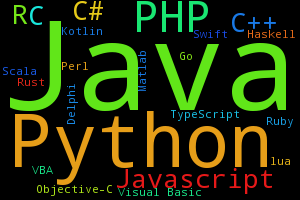
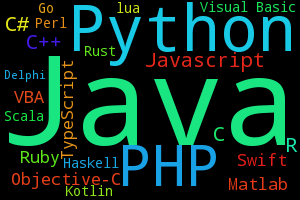
Revert "new cache"
This reverts commit c0889051d629a88a3acd88e6d77edf93670402fe.

diff --git a/PYPL/All.js b/PYPL/All.js
@@ -1,7 +1,7 @@
     // data
 // begin Top All
 TopPlusMinus = [1,1,2]
-PlusMinus = [-0.06465,0.146133333333]
+PlusMinus = [-0.0595666666667,0.1457]
 // end Top All
 graphData = [
 ['Date', // begin section languages
@@ -9,62 +9,62 @@ graphData = [
 // end section languages
 ],
 // begin section All
-[new Date(2004,3,1), 0.272,0.023,0.172,0.042,0.084,0.092,0.092,0.002,0.003,0.003,0.021,0.003,0.012,0.082,0.001,0.066,0.002,0.028,0.003,0.001],
-[new Date(2004,6,1), 0.268,0.024,0.173,0.045,0.082,0.09,0.09,0.003,0.003,0.003,0.021,0.003,0.014,0.081,0.002,0.067,0.002,0.028,0.002,0.002],
-[new Date(2004,9,1), 0.265,0.026,0.177,0.05,0.079,0.086,0.086,0.002,0.003,0.003,0.02,0.003,0.015,0.08,0.002,0.068,0.002,0.028,0.002,0.002],
-[new Date(2004,12,1), 0.27,0.027,0.179,0.051,0.076,0.088,0.088,0.002,0.004,0.004,0.021,0.004,0.015,0.076,0.002,0.064,0.002,0.028,0.002,0.002],
-[new Date(2005,3,1), 0.28,0.021,0.175,0.056,0.073,0.088,0.088,0.002,0.004,0.004,0.014,0.005,0.016,0.076,0.002,0.063,0.002,0.029,0.002,0.004],
-[new Date(2005,6,1), 0.291,0.017,0.171,0.061,0.074,0.084,0.084,0.002,0.003,0.004,0.006,0.006,0.018,0.079,0.002,0.063,0.002,0.029,0.002,0.003],
-[new Date(2005,9,1), 0.292,0.018,0.174,0.061,0.076,0.083,0.083,0.002,0.003,0.003,0.006,0.009,0.018,0.078,0.062,0.002,0.027,0.002,0.002],
-[new Date(2005,12,1), 0.291,0.018,0.175,0.061,0.076,0.081,0.081,0.003,0.004,0.004,0.006,0.015,0.018,0.074,0.004,0.06,0.002,0.026,0.003,0.002],
-[new Date(2006,3,1), 0.294,0.019,0.179,0.062,0.077,0.079,0.079,0.002,0.003,0.003,0.006,0.02,0.018,0.069,0.003,0.057,0.002,0.024,0.002,0.003],
-[new Date(2006,6,1), 0.29,0.02,0.181,0.067,0.079,0.076,0.076,0.002,0.004,0.004,0.006,0.022,0.019,0.07,0.002,0.056,0.002,0.023,0.002,0.002],
-[new Date(2006,9,1), 0.285,0.021,0.177,0.072,0.08,0.075,0.075,0.002,0.003,0.004,0.005,0.024,0.019,0.067,0.002,0.057,0.003,0.023,0.003,0.003],
-[new Date(2006,12,1), 0.291,0.023,0.175,0.073,0.081,0.075,0.075,0.002,0.003,0.003,0.005,0.026,0.018,0.063,0.002,0.056,0.003,0.021,0.002,0.003],
-[new Date(2007,3,1), 0.297,0.023,0.175,0.071,0.079,0.075,0.075,0.002,0.003,0.003,0.006,0.028,0.018,0.064,0.001,0.055,0.002,0.02,0.002,0.002],
-[new Date(2007,6,1), 0.298,0.025,0.18,0.07,0.079,0.073,0.073,0.002,0.003,0.003,0.006,0.028,0.018,0.063,0.001,0.053,0.002,0.02,0.002,0.002],
-[new Date(2007,9,1), 0.302,0.027,0.182,0.071,0.08,0.071,0.071,0.002,0.003,0.003,0.005,0.028,0.019,0.059,0.001,0.051,0.002,0.02,0.002,0.002],
-[new Date(2007,12,1), 0.305,0.028,0.179,0.072,0.077,0.075,0.075,0.002,0.004,0.002,0.006,0.028,0.019,0.056,0.001,0.048,0.002,0.018,0.002,0.002],
-[new Date(2008,3,1), 0.304,0.028,0.175,0.075,0.076,0.076,0.076,0.002,0.004,0.003,0.006,0.029,0.019,0.057,0.002,0.044,0.002,0.019,0.002,0.002],
-[new Date(2008,6,1), 0.298,0.03,0.176,0.08,0.078,0.073,0.073,0.002,0.004,0.003,0.007,0.029,0.02,0.058,0.002,0.042,0.002,0.021,0.002,0.002],
-[new Date(2008,9,1), 0.287,0.033,0.177,0.083,0.075,0.075,0.075,0.002,0.005,0.003,0.007,0.028,0.021,0.059,0.002,0.042,0.002,0.02,0.002,0.002],
-[new Date(2008,12,1), 0.283,0.033,0.172,0.081,0.075,0.079,0.079,0.002,0.005,0.003,0.006,0.027,0.022,0.06,0.002,0.043,0.003,0.019,0.002,0.002,0.001],
-[new Date(2009,3,1), 0.285,0.034,0.172,0.078,0.074,0.082,0.082,0.002,0.005,0.002,0.007,0.026,0.022,0.061,0.002,0.043,0.003,0.018,0.002,0.001,0.001],
-[new Date(2009,6,1), 0.281,0.035,0.176,0.072,0.074,0.086,0.086,0.002,0.005,0.002,0.007,0.026,0.024,0.06,0.002,0.042,0.002,0.016,0.002,0.001],
-[new Date(2009,9,1), 0.274,0.037,0.172,0.067,0.077,0.093,0.093,0.002,0.005,0.002,0.007,0.025,0.026,0.059,0.002,0.04,0.002,0.015,0.002,0.001],
-[new Date(2009,12,1), 0.277,0.037,0.167,0.065,0.072,0.1,0.1,0.002,0.005,0.002,0.008,0.024,0.026,0.059,0.002,0.038,0.001,0.014,0.002,0.001],
-[new Date(2010,3,1), 0.282,0.035,0.163,0.062,0.067,0.105,0.105,0.003,0.005,0.002,0.008,0.022,0.027,0.059,0.002,0.035,0.001,0.014,0.001,0.002,0.001],
-[new Date(2010,6,1), 0.279,0.035,0.16,0.062,0.068,0.109,0.109,0.003,0.005,0.002,0.009,0.021,0.027,0.057,0.002,0.034,0.002,0.014,0.001,0.002,0.001],
-[new Date(2010,9,1), 0.279,0.036,0.154,0.064,0.067,0.112,0.112,0.006,0.005,0.002,0.009,0.022,0.028,0.053,0.002,0.031,0.002,0.013,0.001,0.001,0.001],
-[new Date(2010,12,1), 0.281,0.037,0.149,0.063,0.064,0.115,0.115,0.012,0.006,0.002,0.009,0.025,0.026,0.05,0.002,0.027,0.002,0.013,0.001,0.001,0.001],
-[new Date(2011,3,1), 0.279,0.038,0.148,0.061,0.064,0.117,0.117,0.015,0.006,0.002,0.008,0.026,0.024,0.049,0.002,0.026,0.002,0.012,0.001,0.002,0.001],
-[new Date(2011,6,1), 0.279,0.038,0.146,0.061,0.065,0.117,0.117,0.018,0.006,0.001,0.008,0.026,0.024,0.049,0.002,0.026,0.002,0.011,0.001,0.001,0.001],
-[new Date(2011,9,1), 0.272,0.039,0.14,0.059,0.065,0.122,0.122,0.022,0.006,0.001,0.008,0.027,0.026,0.046,0.003,0.026,0.002,0.01,0.001,0.001,0.001],
-[new Date(2011,12,1), 0.271,0.043,0.138,0.066,0.068,0.113,0.113,0.032,0.007,0.001,0.009,0.026,0.028,0.044,0.003,0.024,0.002,0.01,0.001,0.002,0.001],
-[new Date(2012,3,1), 0.274,0.046,0.141,0.082,0.068,0.096,0.096,0.039,0.007,0.001,0.01,0.027,0.029,0.044,0.002,0.024,0.002,0.009,0.001,0.001,0.001,0.001],
-[new Date(2012,6,1), 0.273,0.046,0.142,0.095,0.066,0.09,0.09,0.04,0.007,0.001,0.01,0.028,0.028,0.042,0.003,0.024,0.002,0.01,0.001,0.001,0.001,0.001],
-[new Date(2012,9,1), 0.275,0.048,0.141,0.099,0.068,0.088,0.088,0.041,0.007,0.001,0.009,0.029,0.025,0.04,0.003,0.023,0.002,0.009,0.001,0.002,0.001,0.001,0.001],
-[new Date(2012,12,1), 0.278,0.05,0.14,0.1,0.068,0.088,0.088,0.043,0.007,0.001,0.009,0.029,0.023,0.038,0.004,0.021,0.002,0.009,0.001,0.002,0.001,0.001,0.001],
-[new Date(2013,3,1), 0.266,0.069,0.136,0.096,0.068,0.081,0.081,0.048,0.013,0.003,0.019,0.027,0.019,0.034,0.004,0.019,0.004,0.008,0.001,0.002,0.001,0.001,0.0],
-[new Date(2013,6,1), 0.249,0.09,0.133,0.092,0.07,0.075,0.075,0.05,0.019,0.004,0.03,0.026,0.016,0.03,0.004,0.017,0.006,0.007,0.001,0.003,0.001,0.001,0.0],
-[new Date(2013,9,1), 0.248,0.092,0.13,0.092,0.072,0.075,0.075,0.056,0.019,0.004,0.028,0.026,0.015,0.029,0.005,0.017,0.006,0.006,0.001,0.003,0.001,0.001,0.0],
-[new Date(2013,12,1), 0.247,0.094,0.125,0.09,0.071,0.077,0.077,0.061,0.02,0.003,0.028,0.025,0.015,0.027,0.006,0.016,0.006,0.006,0.001,0.003,0.001,0.001,0.0],
-[new Date(2014,3,1), 0.244,0.096,0.122,0.092,0.072,0.076,0.076,0.061,0.021,0.003,0.029,0.025,0.015,0.027,0.006,0.015,0.005,0.006,0.001,0.003,0.002,0.001,0.0],
-[new Date(2014,6,1), 0.245,0.096,0.122,0.093,0.074,0.075,0.075,0.06,0.022,0.006,0.028,0.025,0.015,0.026,0.006,0.014,0.005,0.006,0.001,0.003,0.003,0.001,0.0],
-[new Date(2014,9,1), 0.246,0.097,0.118,0.092,0.071,0.075,0.075,0.059,0.023,0.014,0.027,0.024,0.015,0.024,0.006,0.014,0.005,0.006,0.002,0.003,0.002,0.001,0.0],
-[new Date(2014,12,1), 0.242,0.103,0.112,0.089,0.068,0.075,0.075,0.059,0.025,0.023,0.029,0.025,0.014,0.023,0.007,0.013,0.005,0.005,0.002,0.003,0.002,0.001,0.0],
-[new Date(2015,3,1), 0.24,0.108,0.112,0.088,0.069,0.073,0.073,0.056,0.026,0.025,0.03,0.025,0.014,0.022,0.007,0.012,0.005,0.006,0.002,0.003,0.002,0.001,0.0],
-[new Date(2015,6,1), 0.242,0.108,0.112,0.09,0.071,0.071,0.071,0.052,0.027,0.026,0.029,0.024,0.015,0.02,0.008,0.012,0.005,0.005,0.002,0.003,0.002,0.002,0.0],
-[new Date(2015,9,1), 0.244,0.109,0.108,0.09,0.071,0.072,0.072,0.052,0.027,0.028,0.027,0.024,0.015,0.019,0.009,0.012,0.005,0.005,0.003,0.003,0.002,0.002,0.0],
-[new Date(2015,12,1), 0.241,0.116,0.105,0.088,0.071,0.074,0.074,0.05,0.028,0.029,0.027,0.023,0.015,0.018,0.009,0.011,0.005,0.004,0.003,0.003,0.002,0.003,0.0],
-[new Date(2016,3,1), 0.232,0.123,0.106,0.086,0.072,0.073,0.073,0.05,0.03,0.031,0.029,0.022,0.014,0.017,0.009,0.01,0.005,0.004,0.003,0.003,0.002,0.004,0.001],
+[new Date(2004,3,1), 0.263,0.02,0.164,0.041,0.077,0.137,0.089,0.0,0.0,0.0,0.021,0.0,0.015,0.08,0.0,0.065,0.0,0.028,0.0,0.0,0.0,0.0,0.0],
+[new Date(2004,6,1), 0.264,0.022,0.167,0.044,0.076,0.135,0.087,0.0,0.0,0.0,0.021,0.0,0.015,0.077,0.0,0.065,0.0,0.027,0.0,0.0,0.0,0.0,0.0],
+[new Date(2004,9,1), 0.258,0.024,0.174,0.048,0.074,0.134,0.083,0.0,0.0,0.0,0.021,0.0,0.016,0.077,0.0,0.065,0.0,0.026,0.0,0.0,0.0,0.0,0.0],
+[new Date(2004,12,1), 0.26,0.024,0.175,0.049,0.073,0.136,0.085,0.0,0.0,0.0,0.022,0.0,0.016,0.073,0.0,0.062,0.0,0.026,0.0,0.0,0.0,0.0,0.0],
+[new Date(2005,3,1), 0.265,0.024,0.175,0.052,0.072,0.134,0.09,0.0,0.0,0.0,0.022,0.001,0.015,0.067,0.0,0.058,0.0,0.025,0.0,0.0,0.0,0.0,0.0],
+[new Date(2005,6,1), 0.268,0.027,0.175,0.053,0.073,0.129,0.087,0.0,0.0,0.0,0.021,0.005,0.015,0.067,0.0,0.057,0.0,0.024,0.0,0.0,0.0,0.0,0.0],
+[new Date(2005,9,1), 0.269,0.031,0.175,0.054,0.075,0.126,0.083,0.0,0.0,0.0,0.02,0.009,0.015,0.065,0.0,0.054,0.0,0.022,0.0,0.0,0.0,0.0,0.0],
+[new Date(2005,12,1), 0.268,0.034,0.177,0.057,0.076,0.124,0.082,0.0,0.0,0.0,0.02,0.011,0.014,0.064,0.0,0.053,0.0,0.02,0.0,0.0,0.0,0.0,0.0],
+[new Date(2006,3,1), 0.269,0.034,0.179,0.057,0.074,0.123,0.08,0.0,0.003,0.0,0.022,0.015,0.014,0.06,0.0,0.052,0.0,0.019,0.0,0.0,0.0,0.0,0.0],
+[new Date(2006,6,1), 0.264,0.034,0.179,0.06,0.076,0.119,0.076,0.0,0.006,0.0,0.021,0.019,0.015,0.06,0.0,0.052,0.0,0.019,0.0,0.0,0.0,0.0,0.0],
+[new Date(2006,9,1), 0.261,0.037,0.178,0.063,0.078,0.113,0.075,0.0,0.007,0.0,0.021,0.022,0.016,0.058,0.0,0.054,0.0,0.018,0.0,0.0,0.0,0.0,0.0],
+[new Date(2006,12,1), 0.268,0.038,0.179,0.064,0.077,0.111,0.076,0.0,0.007,0.0,0.021,0.023,0.016,0.052,0.0,0.05,0.0,0.017,0.0,0.0,0.0,0.0,0.0],
+[new Date(2007,3,1), 0.275,0.039,0.181,0.062,0.076,0.112,0.075,0.0,0.006,0.0,0.021,0.025,0.015,0.051,0.0,0.046,0.0,0.017,0.0,0.0,0.0,0.0,0.0],
+[new Date(2007,6,1), 0.273,0.042,0.184,0.063,0.077,0.108,0.072,0.0,0.006,0.0,0.021,0.027,0.015,0.05,0.0,0.045,0.0,0.017,0.0,0.0,0.0,0.0,0.0],
+[new Date(2007,9,1), 0.273,0.045,0.183,0.064,0.078,0.105,0.073,0.0,0.006,0.0,0.021,0.027,0.016,0.048,0.0,0.045,0.0,0.016,0.0,0.0,0.0,0.0,0.0],
+[new Date(2007,12,1), 0.274,0.048,0.177,0.064,0.075,0.107,0.075,0.0,0.007,0.0,0.022,0.028,0.016,0.047,0.0,0.043,0.0,0.016,0.0,0.0,0.0,0.0,0.0],
+[new Date(2008,3,1), 0.27,0.047,0.174,0.067,0.075,0.109,0.075,0.0,0.008,0.0,0.024,0.028,0.016,0.048,0.0,0.04,0.003,0.016,0.0,0.0,0.0,0.0,0.0],
+[new Date(2008,6,1), 0.269,0.047,0.177,0.071,0.076,0.104,0.071,0.0,0.007,0.0,0.024,0.027,0.016,0.048,0.0,0.039,0.006,0.016,0.0,0.0,0.0,0.0,0.0],
+[new Date(2008,9,1), 0.265,0.052,0.179,0.073,0.074,0.103,0.071,0.0,0.008,0.0,0.023,0.026,0.017,0.049,0.0,0.037,0.005,0.017,0.0,0.0,0.0,0.0,0.0],
+[new Date(2008,12,1), 0.258,0.056,0.175,0.072,0.072,0.108,0.077,0.0,0.009,0.0,0.024,0.025,0.017,0.049,0.0,0.037,0.005,0.016,0.0,0.0,0.0,0.0,0.0],
+[new Date(2009,3,1), 0.258,0.058,0.172,0.069,0.07,0.108,0.08,0.0,0.01,0.0,0.026,0.024,0.017,0.051,0.0,0.037,0.005,0.015,0.0,0.0,0.0,0.0,0.0],
+[new Date(2009,6,1), 0.257,0.057,0.174,0.065,0.071,0.107,0.084,0.0,0.01,0.0,0.027,0.024,0.018,0.05,0.0,0.035,0.005,0.015,0.0,0.0,0.0,0.0,0.0],
+[new Date(2009,9,1), 0.252,0.057,0.172,0.061,0.072,0.108,0.093,0.0,0.009,0.0,0.028,0.025,0.02,0.048,0.0,0.035,0.005,0.013,0.0,0.0,0.0,0.0,0.0],
+[new Date(2009,12,1), 0.254,0.058,0.167,0.059,0.07,0.109,0.098,0.0,0.01,0.0,0.03,0.023,0.021,0.048,0.0,0.034,0.005,0.013,0.0,0.0,0.0,0.0,0.0],
+[new Date(2010,3,1), 0.26,0.057,0.166,0.056,0.066,0.106,0.103,0.001,0.01,0.001,0.032,0.02,0.022,0.05,0.001,0.031,0.004,0.012,0.0,0.001,0.0,0.0,0.0],
+[new Date(2010,6,1), 0.261,0.056,0.164,0.056,0.065,0.101,0.106,0.003,0.01,0.003,0.032,0.019,0.023,0.049,0.002,0.031,0.004,0.012,0.0,0.003,0.0,0.0,0.0],
+[new Date(2010,9,1), 0.263,0.058,0.158,0.059,0.064,0.099,0.108,0.005,0.012,0.003,0.03,0.02,0.022,0.047,0.003,0.029,0.005,0.011,0.0,0.005,0.001,0.0,0.0],
+[new Date(2010,12,1), 0.264,0.061,0.153,0.059,0.062,0.096,0.109,0.01,0.012,0.003,0.03,0.022,0.02,0.045,0.004,0.025,0.005,0.011,0.0,0.006,0.002,0.0,0.0],
+[new Date(2011,3,1), 0.262,0.062,0.152,0.057,0.062,0.092,0.112,0.014,0.013,0.003,0.031,0.023,0.019,0.045,0.004,0.025,0.005,0.011,0.001,0.005,0.001,0.0,0.0],
+[new Date(2011,6,1), 0.263,0.062,0.151,0.056,0.065,0.09,0.114,0.018,0.013,0.003,0.029,0.024,0.019,0.044,0.003,0.024,0.005,0.01,0.001,0.005,0.001,0.0,0.0],
+[new Date(2011,9,1), 0.26,0.067,0.149,0.054,0.067,0.09,0.121,0.022,0.013,0.003,0.026,0.024,0.018,0.041,0.003,0.023,0.005,0.008,0.001,0.003,0.001,0.0,0.0],
+[new Date(2011,12,1), 0.255,0.071,0.144,0.058,0.068,0.09,0.112,0.032,0.013,0.003,0.028,0.024,0.02,0.039,0.003,0.022,0.004,0.008,0.001,0.003,0.001,0.0,0.0],
+[new Date(2012,3,1), 0.266,0.059,0.143,0.077,0.067,0.091,0.095,0.039,0.01,0.002,0.02,0.025,0.026,0.041,0.003,0.022,0.003,0.009,0.0,0.003,0.001,0.0,0.0],
+[new Date(2012,6,1), 0.277,0.046,0.143,0.093,0.067,0.089,0.089,0.04,0.007,0.001,0.009,0.028,0.027,0.042,0.003,0.023,0.002,0.01,0.001,0.001,0.001,0.0,0.0],
+[new Date(2012,9,1), 0.275,0.048,0.142,0.099,0.069,0.087,0.087,0.042,0.007,0.001,0.009,0.029,0.025,0.041,0.003,0.023,0.002,0.009,0.001,0.002,0.001,0.0,0.0],
+[new Date(2012,12,1), 0.273,0.05,0.139,0.102,0.069,0.087,0.087,0.044,0.007,0.001,0.009,0.029,0.024,0.038,0.004,0.022,0.002,0.009,0.001,0.002,0.001,0.0,0.0],
+[new Date(2013,3,1), 0.261,0.07,0.135,0.098,0.068,0.081,0.081,0.049,0.013,0.003,0.02,0.028,0.02,0.034,0.004,0.019,0.004,0.008,0.001,0.002,0.001,0.0,0.0],
+[new Date(2013,6,1), 0.251,0.09,0.134,0.093,0.07,0.075,0.075,0.051,0.019,0.004,0.029,0.025,0.015,0.029,0.004,0.017,0.006,0.007,0.001,0.003,0.001,0.001,0.0],
+[new Date(2013,9,1), 0.25,0.093,0.132,0.092,0.071,0.074,0.074,0.056,0.019,0.004,0.028,0.025,0.015,0.028,0.005,0.017,0.006,0.006,0.001,0.003,0.001,0.001,0.0],
+[new Date(2013,12,1), 0.247,0.093,0.126,0.091,0.07,0.076,0.076,0.06,0.02,0.004,0.028,0.025,0.015,0.028,0.006,0.016,0.006,0.006,0.001,0.003,0.001,0.001,0.0],
+[new Date(2014,3,1), 0.243,0.094,0.122,0.09,0.072,0.077,0.077,0.061,0.021,0.003,0.029,0.025,0.015,0.028,0.006,0.015,0.005,0.006,0.001,0.003,0.002,0.001,0.0],
+[new Date(2014,6,1), 0.239,0.094,0.119,0.09,0.074,0.076,0.076,0.062,0.023,0.007,0.029,0.026,0.016,0.027,0.006,0.015,0.006,0.006,0.001,0.003,0.003,0.001,0.0],
+[new Date(2014,9,1), 0.2,0.08,0.098,0.076,0.061,0.063,0.063,0.049,0.02,0.011,0.023,0.022,0.013,0.02,0.005,0.012,0.005,0.005,0.001,0.003,0.002,0.001,0.0],
+[new Date(2014,12,1), 0.081,0.033,0.039,0.03,0.024,0.026,0.026,0.019,0.008,0.006,0.008,0.009,0.005,0.008,0.002,0.005,0.002,0.002,0.001,0.001,0.001,0.0,0.0],
+[new Date(2015,3,1), 0.121,0.055,0.056,0.045,0.034,0.036,0.036,0.026,0.014,0.012,0.015,0.012,0.007,0.011,0.004,0.006,0.002,0.003,0.001,0.001,0.001,0.001,0.0],
+[new Date(2015,6,1), 0.243,0.109,0.112,0.09,0.07,0.071,0.071,0.052,0.027,0.026,0.028,0.025,0.015,0.02,0.008,0.012,0.005,0.005,0.002,0.003,0.002,0.002,0.0],
+[new Date(2015,9,1), 0.243,0.111,0.108,0.089,0.071,0.073,0.073,0.052,0.028,0.027,0.026,0.025,0.015,0.019,0.009,0.012,0.005,0.005,0.003,0.003,0.002,0.002,0.0],
+[new Date(2015,12,1), 0.241,0.117,0.106,0.087,0.07,0.074,0.074,0.051,0.028,0.028,0.026,0.023,0.015,0.017,0.008,0.011,0.005,0.004,0.003,0.003,0.002,0.003,0.0],
+[new Date(2016,3,1), 0.232,0.123,0.106,0.086,0.071,0.073,0.073,0.051,0.03,0.031,0.028,0.022,0.014,0.017,0.009,0.01,0.005,0.004,0.003,0.003,0.002,0.004,0.001],
 [new Date(2016,6,1), 0.225,0.129,0.105,0.085,0.072,0.071,0.071,0.051,0.033,0.034,0.027,0.022,0.014,0.016,0.01,0.009,0.005,0.004,0.004,0.003,0.003,0.006,0.001],
-[new Date(2016,9,1), 0.224,0.135,0.101,0.084,0.073,0.071,0.071,0.051,0.033,0.033,0.025,0.022,0.014,0.015,0.01,0.009,0.005,0.004,0.004,0.003,0.003,0.008,0.001],
-[new Date(2016,12,1), 0.221,0.143,0.096,0.082,0.075,0.072,0.072,0.048,0.033,0.032,0.025,0.02,0.013,0.015,0.011,0.009,0.005,0.004,0.005,0.003,0.003,0.01,0.001],
-[new Date(2017,3,1), 0.218,0.155,0.094,0.08,0.077,0.069,0.069,0.043,0.036,0.032,0.025,0.019,0.013,0.014,0.012,0.008,0.005,0.004,0.006,0.004,0.004,0.012,0.001],
-[new Date(2017,6,1), 0.216,0.169,0.09,0.079,0.079,0.065,0.065,0.041,0.037,0.032,0.023,0.019,0.014,0.013,0.013,0.008,0.004,0.003,0.006,0.003,0.003,0.012,0.004],
+[new Date(2016,9,1), 0.225,0.135,0.101,0.085,0.073,0.071,0.071,0.051,0.033,0.033,0.025,0.022,0.014,0.015,0.01,0.009,0.005,0.004,0.004,0.003,0.003,0.007,0.001],
+[new Date(2016,12,1), 0.221,0.143,0.096,0.082,0.076,0.072,0.072,0.048,0.033,0.033,0.025,0.02,0.014,0.015,0.011,0.009,0.005,0.004,0.004,0.003,0.003,0.009,0.001],
+[new Date(2017,3,1), 0.218,0.156,0.094,0.08,0.077,0.069,0.069,0.043,0.036,0.033,0.025,0.019,0.013,0.014,0.012,0.009,0.005,0.004,0.005,0.003,0.003,0.011,0.001],
+[new Date(2017,6,1), 0.215,0.169,0.09,0.079,0.079,0.065,0.065,0.041,0.037,0.032,0.023,0.019,0.014,0.013,0.013,0.008,0.005,0.003,0.007,0.003,0.003,0.013,0.004],
 [new Date(2017,9,1), 0.213,0.181,0.084,0.077,0.08,0.063,0.063,0.039,0.037,0.032,0.022,0.018,0.015,0.012,0.013,0.008,0.004,0.003,0.007,0.003,0.003,0.014,0.007],
-[new Date(2017,12,1), 0.213,0.196,0.08,0.076,0.079,0.062,0.062,0.037,0.038,0.03,0.022,0.017,0.014,0.012,0.012,0.007,0.004,0.003,0.007,0.003,0.003,0.014,0.008]
+[new Date(2017,12,1), 0.213,0.196,0.08,0.076,0.079,0.062,0.062,0.037,0.038,0.03,0.022,0.017,0.014,0.012,0.012,0.007,0.004,0.003,0.007,0.003,0.003,0.013,0.008]
 // end section All
         ];
 

diff --git a/PYPL.html b/PYPL.html
@@ -139,24 +139,24 @@ table = "<!-- begin section All-->\
 <tr><td class=center>3</td><td class=center></td><td>PHP</td><td class=right>8.0 %</td><td class=\"right optCol\">-1.8 %</td></tr>\
 <tr><td class=center>4</td><td class=center><image src=Up.png></td><td>Javascript</td><td class=right>7.9 %</td><td class=\"right optCol\">+0.4 %</td></tr>\
 <tr><td class=center>5</td><td class=center><image src=Down.png></td><td>C#</td><td class=right>7.6 %</td><td class=\"right optCol\">-0.5 %</td></tr>\
-<tr><td class=center>6</td><td class=center></td><td>C</td><td class=right>6.2 %</td><td class=\"right optCol\">-1.1 %</td></tr>\
-<tr><td class=center>7</td><td class=center></td><td>C++</td><td class=right>6.2 %</td><td class=\"right optCol\">-1.1 %</td></tr>\
+<tr><td class=center>6</td><td class=center><image src=Up.png></td><td>C++</td><td class=right>6.2 %</td><td class=\"right optCol\">-1.0 %</td></tr>\
+<tr><td class=center>7</td><td class=center><image src=Down.png></td><td>C</td><td class=right>6.2 %</td><td class=\"right optCol\">-1.0 %</td></tr>\
 <tr><td class=center>8</td><td class=center><image src=Up.png></td><td>R</td><td class=right>3.8 %</td><td class=\"right optCol\">+0.3 %</td></tr>\
 <tr><td class=center>9</td><td class=center><image src=Down.png></td><td>Objective-C</td><td class=right>3.7 %</td><td class=\"right optCol\">-1.0 %</td></tr>\
 <tr><td class=center>10</td><td class=center></td><td>Swift</td><td class=right>3.0 %</td><td class=\"right optCol\">-0.2 %</td></tr>\
 <tr><td class=center>11</td><td class=center></td><td>Matlab</td><td class=right>2.2 %</td><td class=\"right optCol\">-0.5 %</td></tr>\
 <tr><td class=center>12</td><td class=center></td><td>Ruby</td><td class=right>1.7 %</td><td class=\"right optCol\">-0.3 %</td></tr>\
-<tr><td class=center>13</td><td class=center><image src=Up.png><image src=Up.png><image src=Up.png></td><td>TypeScript</td><td class=right>1.4 %</td><td class=\"right optCol\">+0.4 %</td></tr>\
-<tr><td class=center>14</td><td class=center></td><td>VBA</td><td class=right>1.4 %</td><td class=\"right optCol\">+0.2 %</td></tr>\
-<tr><td class=center>15</td><td class=center></td><td>Scala</td><td class=right>1.2 %</td><td class=\"right optCol\">+0.1 %</td></tr>\
-<tr><td class=center>16</td><td class=center><image src=Down.png><image src=Down.png><image src=Down.png></td><td>Visual Basic</td><td class=right>1.2 %</td><td class=\"right optCol\">-0.3 %</td></tr>\
+<tr><td class=center>13</td><td class=center><image src=Up.png></td><td>VBA</td><td class=right>1.4 %</td><td class=\"right optCol\">+0.2 %</td></tr>\
+<tr><td class=center>14</td><td class=center><image src=Up.png><image src=Up.png></td><td>TypeScript</td><td class=right>1.3 %</td><td class=\"right optCol\">+0.4 %</td></tr>\
+<tr><td class=center>15</td><td class=center><image src=Down.png><image src=Down.png></td><td>Visual Basic</td><td class=right>1.2 %</td><td class=\"right optCol\">-0.3 %</td></tr>\
+<tr><td class=center>16</td><td class=center><image src=Down.png></td><td>Scala</td><td class=right>1.2 %</td><td class=\"right optCol\">+0.1 %</td></tr>\
 <tr><td class=center>17</td><td class=center><image src=Up.png><image src=Up.png><image src=Up.png><image src=Up.png><image src=Up.png><image src=Up.png></td><td>Kotlin</td><td class=right>0.8 %</td><td class=\"right optCol\">+1.0 %</td></tr>\
 <tr><td class=center>18</td><td class=center><image src=Down.png></td><td>Perl</td><td class=right>0.7 %</td><td class=\"right optCol\">-0.1 %</td></tr>\
 <tr><td class=center>19</td><td class=center></td><td>Go</td><td class=right>0.7 %</td><td class=\"right optCol\">+0.2 %</td></tr>\
 <tr><td class=center>20</td><td class=center><image src=Down.png><image src=Down.png></td><td>lua</td><td class=right>0.4 %</td><td class=\"right optCol\">-0.2 %</td></tr>\
 <tr><td class=center>21</td><td class=center><image src=Up.png></td><td>Haskell</td><td class=right>0.3 %</td><td class=\"right optCol\">-0.0 %</td></tr>\
-<tr><td class=center>22</td><td class=center><image src=Down.png><image src=Down.png></td><td>Delphi</td><td class=right>0.3 %</td><td class=\"right optCol\">-0.1 %</td></tr>\
-<tr><td class=center>23</td><td class=center><image src=Down.png><image src=Down.png></td><td>Rust</td><td class=right>0.3 %</td><td class=\"right optCol\">-0.1 %</td>\
+<tr><td class=center>22</td><td class=center><image src=Down.png></td><td>Rust</td><td class=right>0.3 %</td><td class=\"right optCol\">-0.1 %</td></tr>\
+<tr><td class=center>23</td><td class=center><image src=Down.png><image src=Down.png><image src=Down.png></td><td>Delphi</td><td class=right>0.3 %</td><td class=\"right optCol\">-0.1 %</td>\
 <!-- end section All-->\
 ";
 if (getUrlParameter('country') == "US") {
@@ -599,7 +599,7 @@ document.getElementById("cloud").src="PYPL/"+cloud;
 
 <script>
 $.ajaxSetup({async:false});
-if (getUrlParameter('country') == "") {$.getScript("PYPL/All.js?t=axbAll8112Allbxa")}
+if (getUrlParameter('country') == "") {$.getScript("PYPL/All.js?t=axbAll6586Allbxa")}
 if (getUrlParameter('country') == "US") {$.getScript("PYPL/US.js?t=axbUS8923USbxa")}
 if (getUrlParameter('country') == "DE") {$.getScript("PYPL/DE.js?t=axbDE5839DEbxa")}
 if (getUrlParameter('country') == "IN") {$.getScript("PYPL/IN.js?t=axbIN2052INbxa")}
